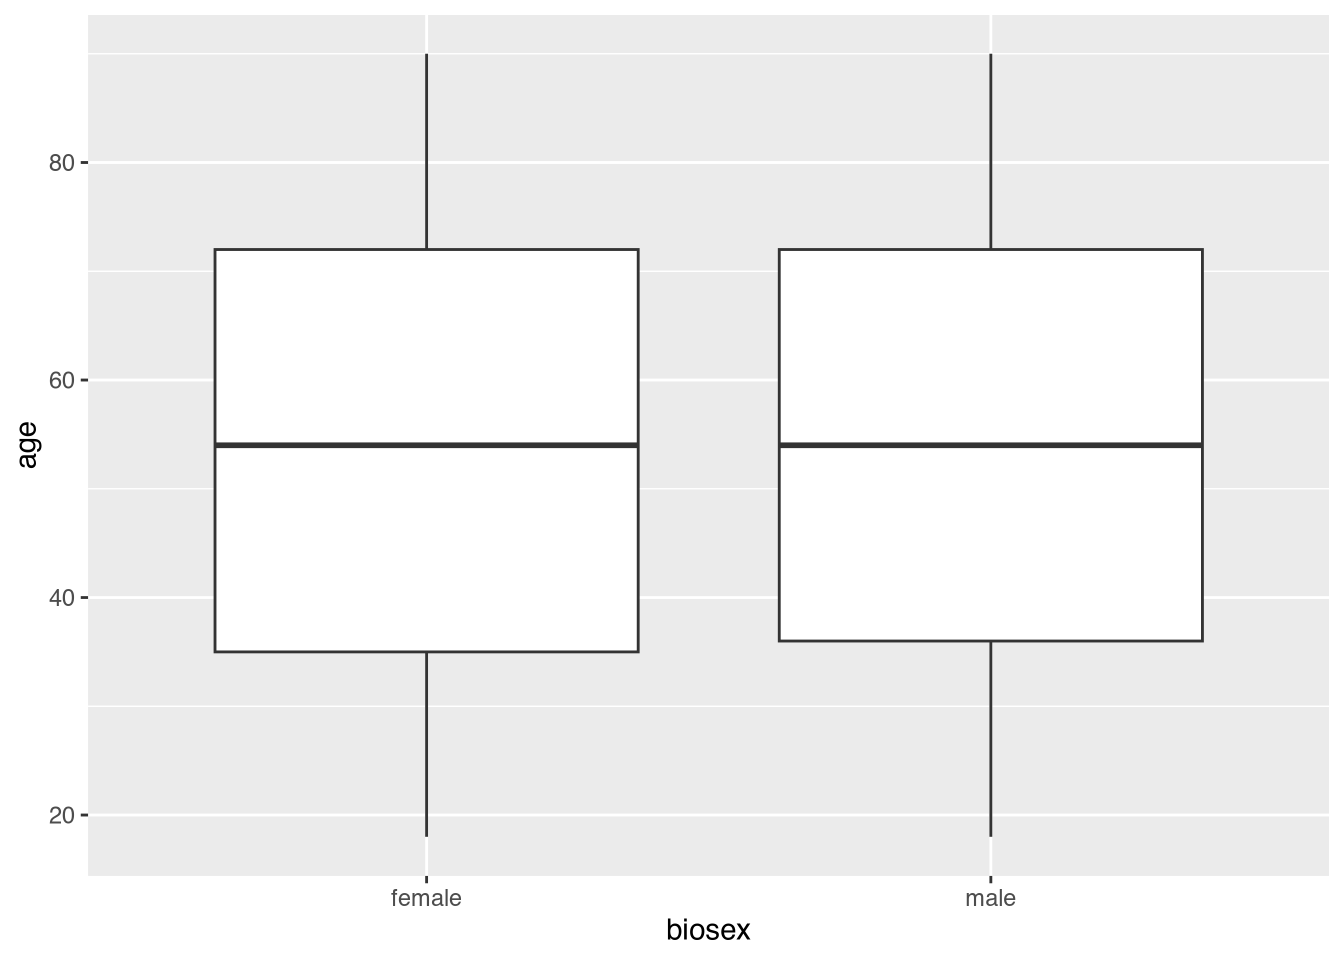
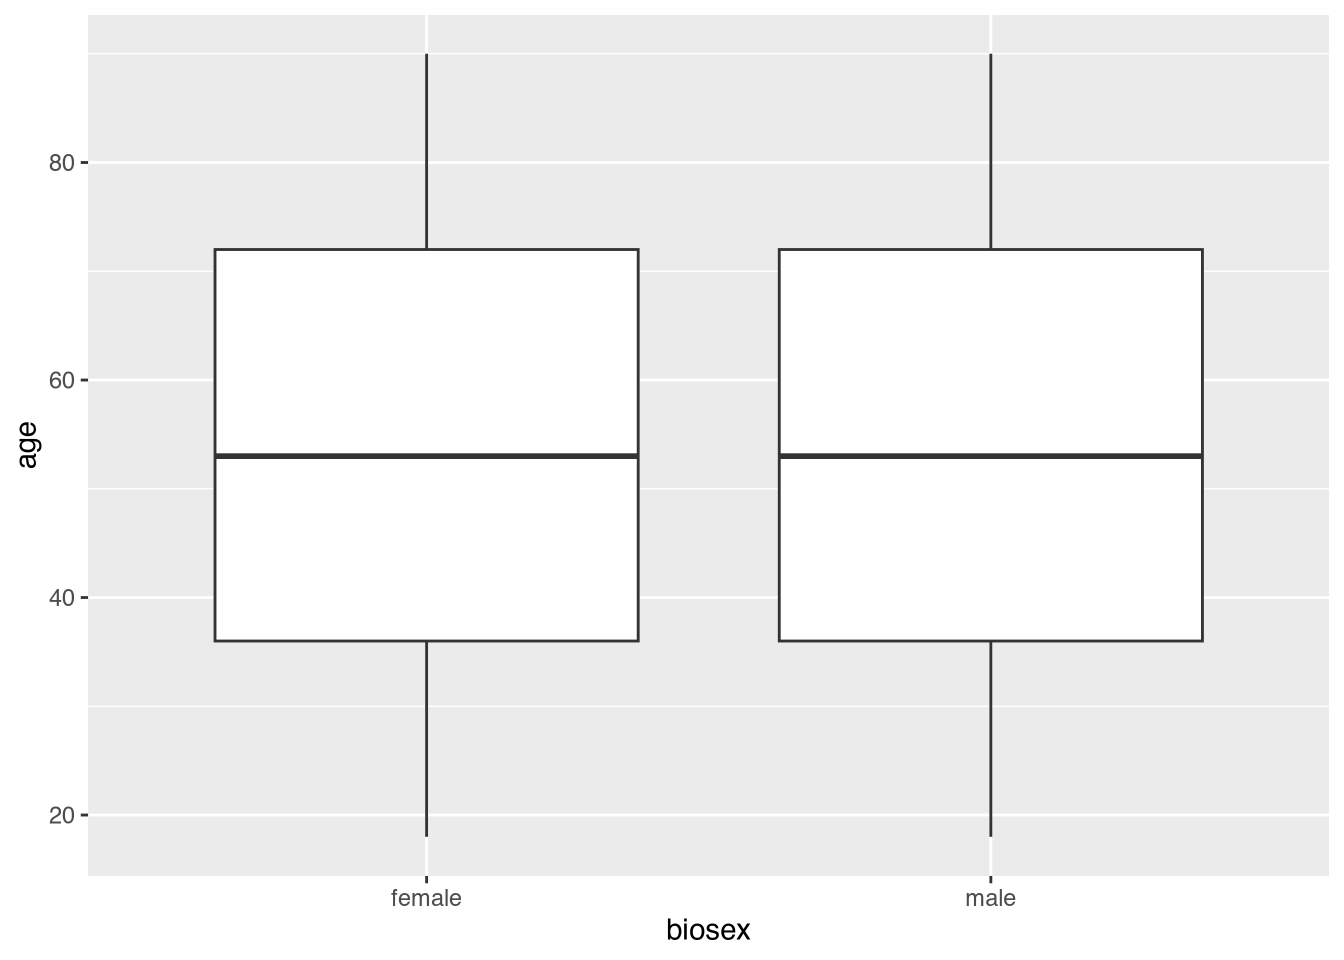
Built site for gh-pages

Changed region(s): [[0.5938, 0.4375, 0.9062, 0.5], [0.1562, 0.4375, 0.4688, 0.5], [0.1562, 0.6562, 0.4688, 0.6875]]

diff --git a/Labs/Lab02.html b/Labs/Lab02.html
@@ -311,8 +311,8 @@ window.Quarto = {
 
 <div id="quarto-search-results"></div>
   <header id="quarto-header" class="headroom fixed-top">
-    <div id="quarto-announcement" data-announcement-id="da9d5df727e07e799e8ec56bf96d72c3" class="alert alert-light hidden"><i class="bi bi-info-circle quarto-announcement-icon"></i><div class="quarto-announcement-content">
-<p>The <a href="../Labs/Lab02.html">Assignment 2 lab component</a>, <a href="../Projects/Project01.html">research proposal project</a> and Lecture 7 slides have been posted.</p>
+    <div id="quarto-announcement" data-announcement-id="51e4ce1701b09ddd23461346ca300551" class="alert alert-light hidden"><i class="bi bi-info-circle quarto-announcement-icon"></i><div class="quarto-announcement-content">
+<p>The <a href="../Labs/Lab03.html">Assignment 3 lab component</a> has been posted.</p>
 </div><i class="bi bi-x-lg quarto-announcement-action"></i></div>
     <nav class="navbar navbar-expand-lg " data-bs-theme="dark">
       <div class="navbar-container container-fluid">
@@ -612,7 +612,7 @@ Levels: Ambidextrous Left-Handed Right-Handed</code></pre>
 <div class="cell">
 <div class="sourceCode cell-code" id="cb9"><pre class="sourceCode r"><code class="sourceCode r"><span id="cb9-1"><a href="#cb9-1" aria-hidden="true" tabindex="-1"></a><span class="fu">sample</span>(<span class="fu">c</span>(<span class="dv">1</span>,<span class="dv">2</span>,<span class="dv">3</span>,<span class="dv">4</span>,<span class="dv">5</span>,<span class="dv">6</span>), <span class="dv">25</span>, <span class="at">replace=</span><span class="cn">TRUE</span>)</span></code></pre></div>
 <div class="cell-output cell-output-stdout">
-<pre><code> [1] 6 4 4 4 6 2 5 1 4 6 6 3 3 4 2 1 2 2 5 3 4 6 3 2 5</code></pre>
+<pre><code> [1] 2 3 3 3 3 6 3 4 1 6 1 2 1 2 3 2 2 6 5 6 5 1 1 1 4</code></pre>
 </div>
 </div>
 
@@ -631,8 +631,8 @@ Levels: Ambidextrous Left-Handed Right-Handed</code></pre>
 <span id="cb11-9"><a href="#cb11-9" aria-hidden="true" tabindex="-1"></a></span>
 <span id="cb11-10"><a href="#cb11-10" aria-hidden="true" tabindex="-1"></a>assignment</span></code></pre></div>
 <div class="cell-output cell-output-stdout">
-<pre><code> [1] placebo   placebo   treatment treatment treatment treatment placebo  
- [8] treatment placebo   placebo  
+<pre><code> [1] treatment placebo   treatment placebo   treatment placebo   treatment
+ [8] placebo   placebo   treatment
 Levels: placebo treatment</code></pre>
 </div>
 </div>
@@ -691,12 +691,12 @@ Think for a moment and then click here to reveal an explanation.
 <span id="cb17-8"><a href="#cb17-8" aria-hidden="true" tabindex="-1"></a><span class="fu">head</span>(demographics)</span></code></pre></div>
 <div class="cell-output cell-output-stdout">
 <pre><code>  age biosex
-1  42 female
-2  88 female
-3  22   male
-4  75 female
-5  53 female
-6  67 female</code></pre>
+1  75   male
+2  53   male
+3  81   male
+4  38   male
+5  29 female
+6  36   male</code></pre>
 </div>
 </div>
 <p>Because this is uniformly random, we should expect even-looking plots.</p>

diff --git a/Labs/Lab01.html b/Labs/Lab01.html
@@ -282,8 +282,8 @@ pre > code.sourceCode > span > a:first-child::before { text-decoration: underlin
 
 <div id="quarto-search-results"></div>
   <header id="quarto-header" class="headroom fixed-top">
-    <div id="quarto-announcement" data-announcement-id="da9d5df727e07e799e8ec56bf96d72c3" class="alert alert-light hidden"><i class="bi bi-info-circle quarto-announcement-icon"></i><div class="quarto-announcement-content">
-<p>The <a href="../Labs/Lab02.html">Assignment 2 lab component</a>, <a href="../Projects/Project01.html">research proposal project</a> and Lecture 7 slides have been posted.</p>
+    <div id="quarto-announcement" data-announcement-id="51e4ce1701b09ddd23461346ca300551" class="alert alert-light hidden"><i class="bi bi-info-circle quarto-announcement-icon"></i><div class="quarto-announcement-content">
+<p>The <a href="../Labs/Lab03.html">Assignment 3 lab component</a> has been posted.</p>
 </div><i class="bi bi-x-lg quarto-announcement-action"></i></div>
     <nav class="navbar navbar-expand-lg " data-bs-theme="dark">
       <div class="navbar-container container-fluid">

diff --git a/Labs/Lab03.html b/Labs/Lab03.html
@@ -282,8 +282,8 @@ pre > code.sourceCode > span > a:first-child::before { text-decoration: underlin
 
 <div id="quarto-search-results"></div>
   <header id="quarto-header" class="headroom fixed-top">
-    <div id="quarto-announcement" data-announcement-id="da9d5df727e07e799e8ec56bf96d72c3" class="alert alert-light hidden"><i class="bi bi-info-circle quarto-announcement-icon"></i><div class="quarto-announcement-content">
-<p>The <a href="../Labs/Lab02.html">Assignment 2 lab component</a>, <a href="../Projects/Project01.html">research proposal project</a> and Lecture 7 slides have been posted.</p>
+    <div id="quarto-announcement" data-announcement-id="51e4ce1701b09ddd23461346ca300551" class="alert alert-light hidden"><i class="bi bi-info-circle quarto-announcement-icon"></i><div class="quarto-announcement-content">
+<p>The <a href="../Labs/Lab03.html">Assignment 3 lab component</a> has been posted.</p>
 </div><i class="bi bi-x-lg quarto-announcement-action"></i></div>
     <nav class="navbar navbar-expand-lg " data-bs-theme="dark">
       <div class="navbar-container container-fluid">

diff --git a/index.html b/index.html
@@ -246,8 +246,8 @@ ul.task-list li input[type="checkbox"] {
 
 <div id="quarto-search-results"></div>
   <header id="quarto-header" class="headroom fixed-top quarto-banner">
-    <div id="quarto-announcement" data-announcement-id="da9d5df727e07e799e8ec56bf96d72c3" class="alert alert-light hidden"><i class="bi bi-info-circle quarto-announcement-icon"></i><div class="quarto-announcement-content">
-<p>The <a href="./Labs/Lab02.html">Assignment 2 lab component</a>, <a href="./Projects/Project01.html">research proposal project</a> and Lecture 7 slides have been posted.</p>
+    <div id="quarto-announcement" data-announcement-id="51e4ce1701b09ddd23461346ca300551" class="alert alert-light hidden"><i class="bi bi-info-circle quarto-announcement-icon"></i><div class="quarto-announcement-content">
+<p>The <a href="./Labs/Lab03.html">Assignment 3 lab component</a> has been posted.</p>
 </div><i class="bi bi-x-lg quarto-announcement-action"></i></div>
     <nav class="navbar navbar-expand-lg " data-bs-theme="dark">
       <div class="navbar-container container-fluid">

diff --git a/404.html b/404.html
@@ -244,8 +244,8 @@ ul.task-list li input[type="checkbox"] {
 
 <div id="quarto-search-results"></div>
   <header id="quarto-header" class="headroom fixed-top">
-    <div id="quarto-announcement" data-announcement-id="da9d5df727e07e799e8ec56bf96d72c3" class="alert alert-light hidden"><i class="bi bi-info-circle quarto-announcement-icon"></i><div class="quarto-announcement-content">
-<p>The <a href="/./Labs/Lab02.html">Assignment 2 lab component</a>, <a href="/./Projects/Project01.html">research proposal project</a> and Lecture 7 slides have been posted.</p>
+    <div id="quarto-announcement" data-announcement-id="51e4ce1701b09ddd23461346ca300551" class="alert alert-light hidden"><i class="bi bi-info-circle quarto-announcement-icon"></i><div class="quarto-announcement-content">
+<p>The <a href="/./Labs/Lab03.html">Assignment 3 lab component</a> has been posted.</p>
 </div><i class="bi bi-x-lg quarto-announcement-action"></i></div>
     <nav class="navbar navbar-expand-lg " data-bs-theme="dark">
       <div class="navbar-container container-fluid">

diff --git a/Design/L05.html b/Design/L05.html
@@ -246,8 +246,8 @@ ul.task-list li input[type="checkbox"] {
 
 <div id="quarto-search-results"></div>
   <header id="quarto-header" class="headroom fixed-top">
-    <div id="quarto-announcement" data-announcement-id="da9d5df727e07e799e8ec56bf96d72c3" class="alert alert-light hidden"><i class="bi bi-info-circle quarto-announcement-icon"></i><div class="quarto-announcement-content">
-<p>The <a href="../Labs/Lab02.html">Assignment 2 lab component</a>, <a href="../Projects/Project01.html">research proposal project</a> and Lecture 7 slides have been posted.</p>
+    <div id="quarto-announcement" data-announcement-id="51e4ce1701b09ddd23461346ca300551" class="alert alert-light hidden"><i class="bi bi-info-circle quarto-announcement-icon"></i><div class="quarto-announcement-content">
+<p>The <a href="../Labs/Lab03.html">Assignment 3 lab component</a> has been posted.</p>
 </div><i class="bi bi-x-lg quarto-announcement-action"></i></div>
     <nav class="navbar navbar-expand-lg " data-bs-theme="dark">
       <div class="navbar-container container-fluid">

diff --git a/Design/L06.html b/Design/L06.html
@@ -246,8 +246,8 @@ ul.task-list li input[type="checkbox"] {
 
 <div id="quarto-search-results"></div>
   <header id="quarto-header" class="headroom fixed-top">
-    <div id="quarto-announcement" data-announcement-id="da9d5df727e07e799e8ec56bf96d72c3" class="alert alert-light hidden"><i class="bi bi-info-circle quarto-announcement-icon"></i><div class="quarto-announcement-content">
-<p>The <a href="../Labs/Lab02.html">Assignment 2 lab component</a>, <a href="../Projects/Project01.html">research proposal project</a> and Lecture 7 slides have been posted.</p>
+    <div id="quarto-announcement" data-announcement-id="51e4ce1701b09ddd23461346ca300551" class="alert alert-light hidden"><i class="bi bi-info-circle quarto-announcement-icon"></i><div class="quarto-announcement-content">
+<p>The <a href="../Labs/Lab03.html">Assignment 3 lab component</a> has been posted.</p>
 </div><i class="bi bi-x-lg quarto-announcement-action"></i></div>
     <nav class="navbar navbar-expand-lg " data-bs-theme="dark">
       <div class="navbar-container container-fluid">

diff --git a/Design/L07.html b/Design/L07.html
@@ -246,8 +246,8 @@ ul.task-list li input[type="checkbox"] {
 
 <div id="quarto-search-results"></div>
   <header id="quarto-header" class="headroom fixed-top">
-    <div id="quarto-announcement" data-announcement-id="da9d5df727e07e799e8ec56bf96d72c3" class="alert alert-light hidden"><i class="bi bi-info-circle quarto-announcement-icon"></i><div class="quarto-announcement-content">
-<p>The <a href="../Labs/Lab02.html">Assignment 2 lab component</a>, <a href="../Projects/Project01.html">research proposal project</a> and Lecture 7 slides have been posted.</p>
+    <div id="quarto-announcement" data-announcement-id="51e4ce1701b09ddd23461346ca300551" class="alert alert-light hidden"><i class="bi bi-info-circle quarto-announcement-icon"></i><div class="quarto-announcement-content">
+<p>The <a href="../Labs/Lab03.html">Assignment 3 lab component</a> has been posted.</p>
 </div><i class="bi bi-x-lg quarto-announcement-action"></i></div>
     <nav class="navbar navbar-expand-lg " data-bs-theme="dark">
       <div class="navbar-container container-fluid">

diff --git a/Projects/Project01.html b/Projects/Project01.html
@@ -246,8 +246,8 @@ ul.task-list li input[type="checkbox"] {
 
 <div id="quarto-search-results"></div>
   <header id="quarto-header" class="headroom fixed-top">
-    <div id="quarto-announcement" data-announcement-id="da9d5df727e07e799e8ec56bf96d72c3" class="alert alert-light hidden"><i class="bi bi-info-circle quarto-announcement-icon"></i><div class="quarto-announcement-content">
-<p>The <a href="../Labs/Lab02.html">Assignment 2 lab component</a>, <a href="../Projects/Project01.html">research proposal project</a> and Lecture 7 slides have been posted.</p>
+    <div id="quarto-announcement" data-announcement-id="51e4ce1701b09ddd23461346ca300551" class="alert alert-light hidden"><i class="bi bi-info-circle quarto-announcement-icon"></i><div class="quarto-announcement-content">
+<p>The <a href="../Labs/Lab03.html">Assignment 3 lab component</a> has been posted.</p>
 </div><i class="bi bi-x-lg quarto-announcement-action"></i></div>
     <nav class="navbar navbar-expand-lg " data-bs-theme="dark">
       <div class="navbar-container container-fluid">

diff --git a/Slides.html b/Slides.html
@@ -246,8 +246,8 @@ ul.task-list li input[type="checkbox"] {
 
 <div id="quarto-search-results"></div>
   <header id="quarto-header" class="headroom fixed-top">
-    <div id="quarto-announcement" data-announcement-id="da9d5df727e07e799e8ec56bf96d72c3" class="alert alert-light hidden"><i class="bi bi-info-circle quarto-announcement-icon"></i><div class="quarto-announcement-content">
-<p>The <a href="./Labs/Lab02.html">Assignment 2 lab component</a>, <a href="./Projects/Project01.html">research proposal project</a> and Lecture 7 slides have been posted.</p>
+    <div id="quarto-announcement" data-announcement-id="51e4ce1701b09ddd23461346ca300551" class="alert alert-light hidden"><i class="bi bi-info-circle quarto-announcement-icon"></i><div class="quarto-announcement-content">
+<p>The <a href="./Labs/Lab03.html">Assignment 3 lab component</a> has been posted.</p>
 </div><i class="bi bi-x-lg quarto-announcement-action"></i></div>
     <nav class="navbar navbar-expand-lg " data-bs-theme="dark">
       <div class="navbar-container container-fluid">

diff --git a/syllabus.html b/syllabus.html
@@ -245,8 +245,8 @@ ul.task-list li input[type="checkbox"] {
 
 <div id="quarto-search-results"></div>
   <header id="quarto-header" class="headroom fixed-top">
-    <div id="quarto-announcement" data-announcement-id="da9d5df727e07e799e8ec56bf96d72c3" class="alert alert-light hidden"><i class="bi bi-info-circle quarto-announcement-icon"></i><div class="quarto-announcement-content">
-<p>The <a href="./Labs/Lab02.html">Assignment 2 lab component</a>, <a href="./Projects/Project01.html">research proposal project</a> and Lecture 7 slides have been posted.</p>
+    <div id="quarto-announcement" data-announcement-id="51e4ce1701b09ddd23461346ca300551" class="alert alert-light hidden"><i class="bi bi-info-circle quarto-announcement-icon"></i><div class="quarto-announcement-content">
+<p>The <a href="./Labs/Lab03.html">Assignment 3 lab component</a> has been posted.</p>
 </div><i class="bi bi-x-lg quarto-announcement-action"></i></div>
     <nav class="navbar navbar-expand-lg " data-bs-theme="dark">
       <div class="navbar-container container-fluid">

diff --git a/Design/L04.html b/Design/L04.html
@@ -275,8 +275,8 @@ window.Quarto = {
 
 <div id="quarto-search-results"></div>
   <header id="quarto-header" class="headroom fixed-top">
-    <div id="quarto-announcement" data-announcement-id="da9d5df727e07e799e8ec56bf96d72c3" class="alert alert-light hidden"><i class="bi bi-info-circle quarto-announcement-icon"></i><div class="quarto-announcement-content">
-<p>The <a href="../Labs/Lab02.html">Assignment 2 lab component</a>, <a href="../Projects/Project01.html">research proposal project</a> and Lecture 7 slides have been posted.</p>
+    <div id="quarto-announcement" data-announcement-id="51e4ce1701b09ddd23461346ca300551" class="alert alert-light hidden"><i class="bi bi-info-circle quarto-announcement-icon"></i><div class="quarto-announcement-content">
+<p>The <a href="../Labs/Lab03.html">Assignment 3 lab component</a> has been posted.</p>
 </div><i class="bi bi-x-lg quarto-announcement-action"></i></div>
     <nav class="navbar navbar-expand-lg " data-bs-theme="dark">
       <div class="navbar-container container-fluid">
